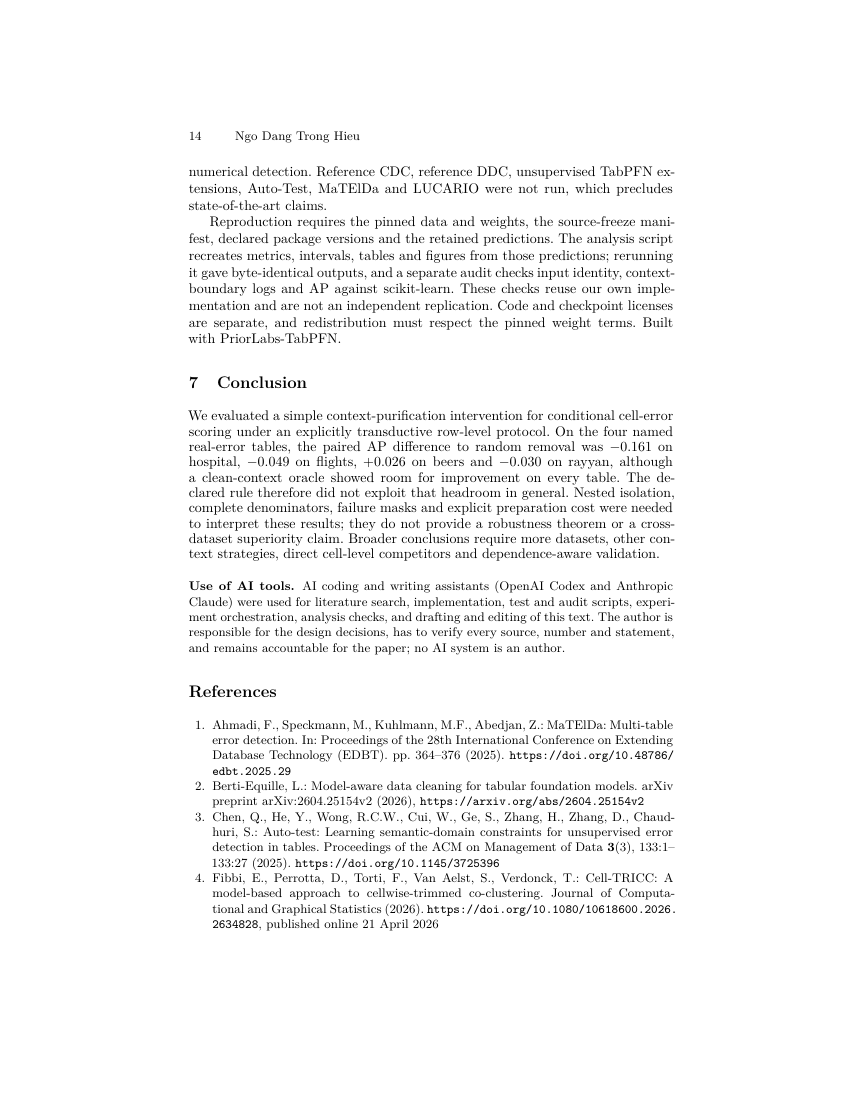
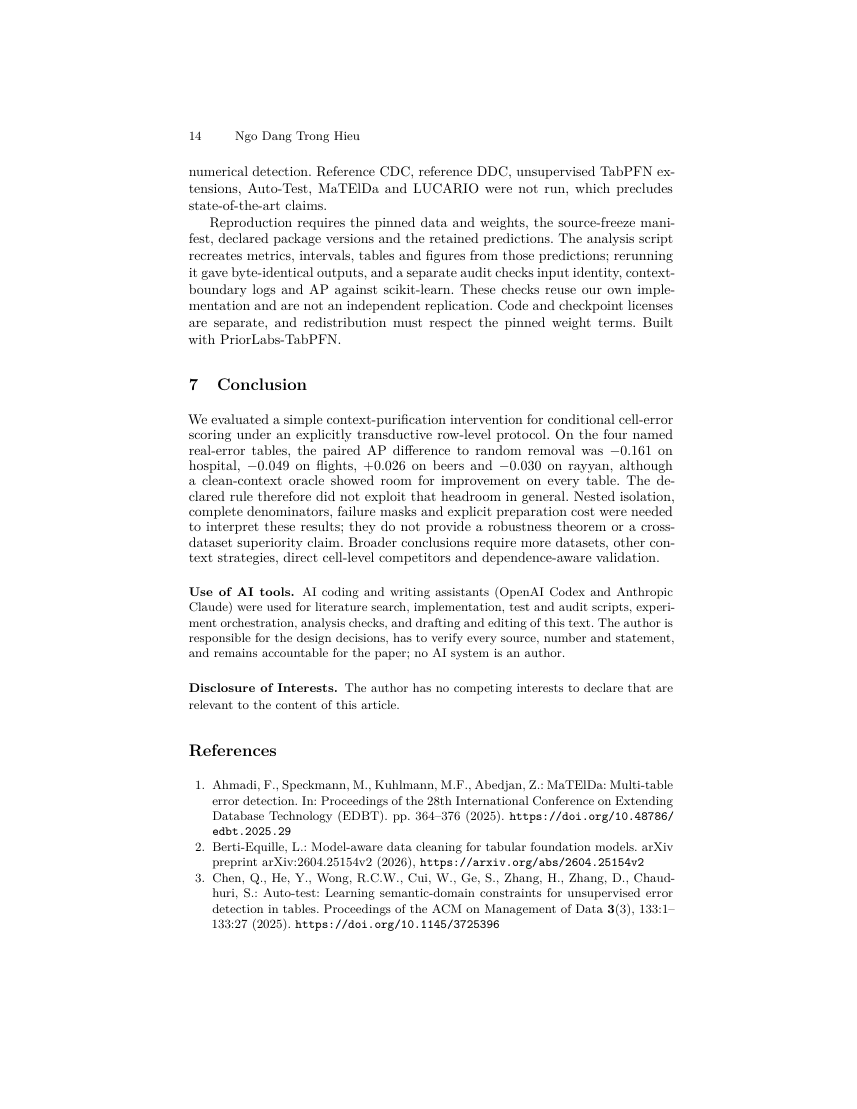
docs(paper): add Disclosure of Interests and record author decisions
The author agreed on 2026-10-31 to the proposed options: no competing
interests (Springer LNCS wording added to the credits block), no
funding, acknowledgments omitted, DADIT session (chosen in EasyChair at
submission), author-named submission, printed metadata confirmed, no
extra Baran citation. Remove the stale page_16 render; rebuild the
15-page PDF and Markdown companion. Submit decision remains with the
author; no submission or upload.

diff --git a/paper/sections/credits.tex b/paper/sections/credits.tex
@@ -6,7 +6,7 @@ analysis checks, and drafting and editing of this text. The author is responsibl
 for the design decisions, has to verify every source, number and statement, and
 remains accountable for the paper; no AI system is an author.
 
-% \subsubsection{\discintname}
-% Mandatory in LNCS (llncs.cls 2.23 history). Content must come from the author;
-% it is intentionally not filled in. See docs/STATE.md (author questions).
+\subsubsection{\discintname}
+The author has no competing interests to declare that are relevant to the content
+of this article.
 \end{credits}

diff --git a/docs/STATE.md b/docs/STATE.md
@@ -1,5 +1,9 @@
 # Trạng thái nghiên cứu CRIC-ED — ACIIDS 2027
 
+## Quyết định tác giả — 2026-10-31 (ghi bởi Claude)
+
+Tác giả trả lời “tôi đồng ý với những câu hỏi của bạn”; ghi nhận là đồng ý với từng phương án đề xuất: không có competing interests (câu Springer đã vào khối `credits`), không có tài trợ, bỏ Acknowledgments, nộp vào **DADIT** (chọn trong EasyChair khi nộp), bản nộp ghi tên tác giả, metadata trên PDF đúng, không thêm trích dẫn Baran, xóa `paper/output/rendered/page_16.png` cũ. Chi tiết: `paper/AUTHOR_METADATA.json` (`author_decisions_20261031`). Còn mở: tác giả đọc/duyệt toàn văn và quyết định có nộp hay không; G4 vẫn REVIEW COMPLETE WITH OPEN FINDINGS (finding Disclosure đã đóng; chưa có review độc lập đầy đủ). Agent không nộp/upload.
+
 ## Trạng thái hiện hành — 2026-10-31 (sau review G4; Claude)
 
 - **Snapshot gần nhất đã commit:** `8b122c29fcc348b0ea189f94232e632dbce51389` (`coord/v2-1-base`). Các sửa đổi ghi dưới đây nằm trong **working tree, chưa commit**. `scratch/` untracked, không thuộc dự án.
@@ -9,7 +13,7 @@
   2. Internal review của Codex, do người dùng dán vào phiên này 2026-10-31 (Codex từng điều phối/triển khai grid → độc lập hạn chế; không phải peer review hay independent replication): 3 Major, 1 Moderate.
   Không lượt nào là review độc lập đầy đủ. Bảng finding và trạng thái đóng: `docs/EXPERIMENT_LOG.md` §11.
 - **Đã sửa trong working tree (chờ commit):** nguyên nhân DDCcore ≡ RobustZ (lỗi code đã freeze, không phải ngưỡng tương quan); penalty pass-1 quyết định 75,6% hàng bị purify loại trong unit s4; lần gián đoạn grid thứ ba; mô tả bootstrap là mô tả, không suy luận; thêm arXiv 2610.12005 vào related work; LightGBM LEO; oracle gap systematic > random; 40/40 unit injected đạt đúng 10%. PDF 15 trang.
-- **Còn mở, chỉ tác giả giải quyết:** nội dung Disclosure of Interests (bắt buộc), Acknowledgments (tùy chọn), chọn session (khuyến nghị DADIT), xác nhận ORCID/đơn vị/email, quyết định nộp. Bản nộp ghi tên tác giả (tác giả xác nhận 2026-10-31).
+- **Còn mở, chỉ tác giả giải quyết:** (cập nhật: Disclosure, Acknowledgments, session, metadata đã quyết — xem khối “Quyết định tác giả”) đọc/duyệt toàn văn và quyết định nộp. Bản nộp ghi tên tác giả (tác giả xác nhận 2026-10-31).
 - **Nộp bài:** agent không nộp/không upload. Hạn 31/10/2026 23:59 AoE = 01/11/2026 18:59 ICT.
 
 ## Câu hỏi cho tác giả (cập nhật 2026-10-31)

diff --git a/paper/MANUSCRIPT.md b/paper/MANUSCRIPT.md
@@ -750,6 +750,11 @@ this text. The author is responsible for the design decisions, has to
 verify every source, number and statement, and remains accountable for
 the paper; no AI system is an author.
 
+### 
+
+The author has no competing interests to declare that are relevant to
+the content of this article.
+
 </div>
 
 <div id="refs" class="references csl-bib-body hanging-indent">
